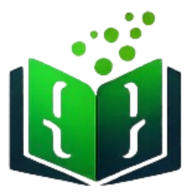
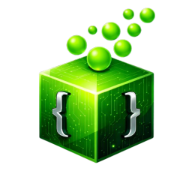
code review - identidade visual do projeto

diff --git a/src/shared/ui/footer/Footer.tsx b/src/shared/ui/footer/Footer.tsx
@@ -1,6 +1,8 @@
+
+import { Link } from 'react-router-dom';
 import { motion } from 'framer-motion';
-// Se estiver usando Lucide React para ícones:
-// import { Github, Linkedin, Instagram } from 'lucide-react';
+import LogoLTECH from './../../../assets/logo-icon.png';
+import { Github, Linkedin, Instagram } from 'lucide-react';
 
 export const Footer = () => {
     const currentYear = new Date().getFullYear();
@@ -10,11 +12,18 @@ export const Footer = () => {
             <div className="max-w-5xl mx-auto px-6">
                 <div className="flex flex-col md:flex-row justify-between items-start md:items-center gap-10">
 
-                    {/* Esquerda: Branding e Contexto */}
                     <div className="space-y-4">
-                        <h2 className="text-xl font-black text-white tracking-tighter">
-                            learn<span className="text-brand-primary">TECH</span>
-                        </h2>
+                        <Link to="/" className="group flex items-center gap-3">
+                            <img
+                                src={LogoLTECH}
+                                alt="Logo LearnTECH"
+                                className="h-10 w-10 object-contain transition-transform group-hover:scale-105"
+                            />
+                            <h1 className="text-2xl font-black tracking-tighter transition-transform group-hover:scale-105">
+                                <span className="text-white">Learn</span>
+                                <span className="text-brand-primary">TECH</span>
+                            </h1>
+                        </Link>
                         <p className="text-zinc-500 text-sm max-w-xs leading-relaxed">
                             Ecossistema de aceleração para desenvolvedores focado em tracks práticas e bootcamps intensivos.
                         </p>
@@ -25,15 +34,23 @@ export const Footer = () => {
                         <span className="text-zinc-500 font-mono text-xs uppercase tracking-widest">Connect with us</span>
                         <div className="flex items-center gap-5">
                             <SocialLink
-                                href="https://github.com/seu-github"
+                                href="https://github.com/seuusuario"
                                 label="GitHub"
-                                icon="GH" // Substitua pelo ícone real
+                                icon={<Github size={20} />}
                             />
+
                             <SocialLink
-                                href="https://linkedin.com/in/seu-linkedin"
+                                href="https://linkedin.com/in/seuusuario"
                                 label="LinkedIn"
-                                icon="LI" // Substitua pelo ícone real
+                                icon={<Linkedin size={20} />}
                             />
+
+                            <SocialLink
+                                href="https://instagram.com/seuusuario"
+                                label="Instagram"
+                                icon={<Instagram size={20} />}
+                            />
+
                         </div>
                     </div>
                 </div>
@@ -41,10 +58,10 @@ export const Footer = () => {
                 {/* Créditos Finais */}
                 <div className="mt-16 pt-8 border-t border-zinc-900/50 flex flex-col md:flex-row justify-between items-center gap-4">
                     <p className="text-zinc-600 text-xs font-mono">
-                        © {currentYear} Douglas A. B. Novato. All rights reserved.
+                        © {currentYear} LearnTECH. All rights reserved.
                     </p>
                     <div className="text-zinc-600 text-[10px] uppercase tracking-tighter">
-                        Desenvolvido com <span className="text-brand-primary">React + Vite</span>
+                        Desenvolvido <span className="text-brand-primary">Eventos </span>com <span className="text-brand-primary">React + Vite</span>
                     </div>
                 </div>
             </div>
@@ -52,8 +69,13 @@ export const Footer = () => {
     );
 };
 
-// Sub-componente interno para evitar repetição (DRY)
-const SocialLink = ({ href, label, icon }: { href: string; label: string; icon: string }) => (
+type SocialLinkProps = {
+    href: string;
+    label: string;
+    icon: React.ReactNode;
+};
+
+const SocialLink = ({ href, label, icon }: SocialLinkProps) => (
     <motion.a
         whileHover={{ y: -3 }}
         whileTap={{ scale: 0.95 }}
@@ -63,6 +85,6 @@ const SocialLink = ({ href, label, icon }: { href: string; label: string; icon: 
         aria-label={label}
         className="w-10 h-10 flex items-center justify-center rounded-xl bg-zinc-900 border border-zinc-800 text-zinc-400 hover:border-brand-primary hover:text-brand-primary transition-colors focus-visible:ring-2 focus-visible:ring-brand-primary outline-none"
     >
-        <span className="font-bold text-xs">{icon}</span>
+        {icon}
     </motion.a>
-);
+); 

diff --git a/src/shared/ui/layout/MainLayout.tsx b/src/shared/ui/layout/MainLayout.tsx
@@ -1,9 +1,9 @@
-// src/shared/ui/layout/MainLayout.tsx
 import type { ReactNode } from 'react';
 import { Link } from 'react-router-dom';
 import { Outlet } from 'react-router-dom';
 
 import { Footer } from '../footer/Footer';
+import LogoLTECH from './../../../assets/logo-icon.png';
 
 interface MainLayoutProps {
     children?: ReactNode;
@@ -17,9 +17,15 @@ export const MainLayout = ({ children }: MainLayoutProps) => {
             {/* 1. HEADER: Identidade e Navegação Principal */}
             <header className="w-full border-b border-zinc-800 bg-zinc-950/50 backdrop-blur-xl sticky top-0 z-50">
                 <div className="max-w-7xl mx-auto px-4 sm:px-6 h-20 flex items-center justify-between">
-                    <Link to="/" className="group">
+                    <Link to="/" className="group flex items-center gap-3">
+                        <img
+                            src={LogoLTECH}
+                            alt="Logo LearnTECH"
+                            className="h-10 w-10 object-contain transition-transform group-hover:scale-105"
+                        />
                         <h1 className="text-2xl font-black tracking-tighter transition-transform group-hover:scale-105">
-                            learn<span className="text-brand-primary">TECH</span>
+                            <span className="text-white">Learn</span>
+                            <span className="text-brand-primary">TECH</span>
                         </h1>
                     </Link>
 

diff --git a/src/pages/home/Home.tsx b/src/pages/home/Home.tsx
@@ -5,7 +5,7 @@ import { useDocumentTitle } from './../../shared/ui/lib/hooks/useDocumentTitle';
 
 export const Home = () => {
     const { events, isLoading } = useEvents();
-    useDocumentTitle("Bootcamps LearnTECH");
+    useDocumentTitle("Eventos LearnTECH");
 
     if (isLoading) {
         return (
@@ -19,7 +19,7 @@ export const Home = () => {
         <section className="container mx-auto px-4 py-8">
             <header className="mb-12">
                 <h1 className="text-4xl font-extrabold tracking-tight text-white">
-                    Bootcamps LearnTECH
+                    Eventos LearnTECH
                 </h1>
                 <p className="text-zinc-400 mt-2 text-lg">
                     Explorando minha jornada técnica e especializações.

diff --git a/src/app/styles/main.css b/src/app/styles/main.css
@@ -1,14 +1,13 @@
 @import "tailwindcss";
 
-@theme {
-  /* Isso cria as classes utilitárias como text-brand-primary, bg-brand-primary, ring-brand-primary */
-  --color-brand-primary: #00d1ff;
+@theme { 
+  --color-brand-primary: #00C853 ;
   --color-brand-secondary: #7000ff;
+  --color-text-white: #FFFFFF;
 }
 
 @layer base {
-  :focus-visible {
-    /* Agora o Tailwind reconhece 'ring-brand-primary' */
+  :focus-visible { 
     @apply outline-none ring-2 ring-[--color-brand-primary] ring-offset-4 ring-offset-zinc-950;
   }
 

diff --git a/index.html b/index.html
@@ -4,7 +4,7 @@
     <meta charset="UTF-8" />
     <link rel="icon" type="image/svg+xml" href="/vite.svg" />
     <meta name="viewport" content="width=device-width, initial-scale=1.0" />
-    <title>Bootcamps LearnTECH</title>
+    <title>Eventos LearnTECH</title>
     <link rel="preconnect" href="https://fonts.googleapis.com" />
     <link rel="preconnect" href="https://fonts.gstatic.com" crossorigin />
     <link

diff --git a/src/declarations.d.ts b/src/declarations.d.ts
@@ -1,0 +1,4 @@
+declare module "*.png" {
+  const value: string;
+  export default value;
+}

diff --git a/readme.md b/readme.md
@@ -8,6 +8,16 @@ Prospecção: Mapear os eventos que você planeja participar (ex: HackTown, even
 
 ## Informações do Projeto
 
+### Identidade Visual
+
+A idealização da comunidade LearnTECH para o projeto Eventos tem a cor principal Verde e a logo um cubo onde os lados tem "{" ou "}".
+
+### Cores do Design 
+
+- --color-brand-primary: #00C853 ;
+- --color-brand-secondary: #7000ff;
+- --color-text-white: #FFFFFF;
+
 ### Workflow
 
 As branches desse projeto seguem a seguinte organização:
